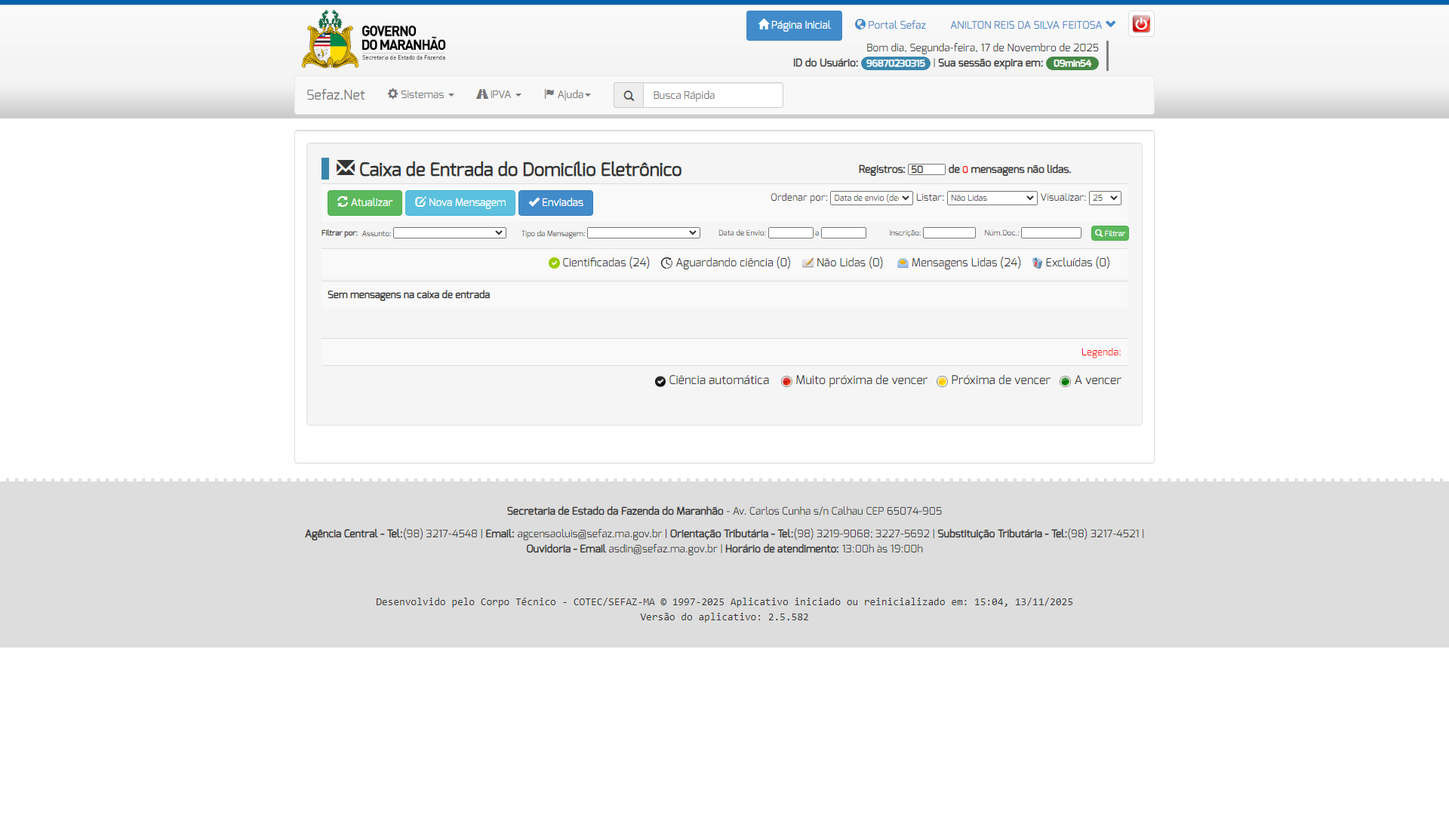
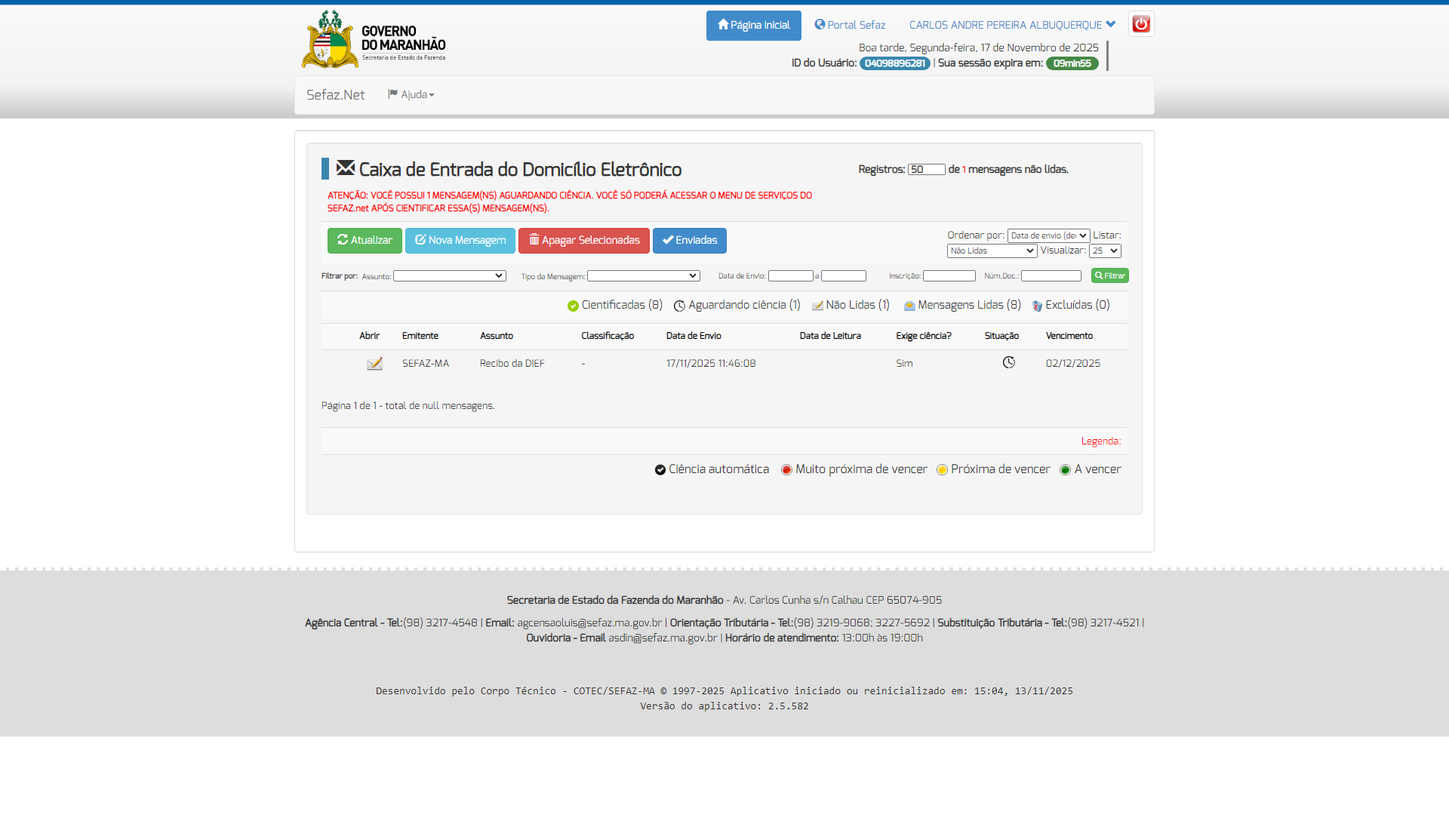
Atualização arquivos de debug e screenshots

diff --git a/debug_post_login.html b/debug_post_login.html
@@ -250,7 +250,7 @@ function ShowPopup(URL){
 		      <li class="title"><h3>Sefaz.NET</h3></li>
 			  <li class="dropdown">
 	
-		        <a id="drop4" role="button" data-toggle="dropdown" href="#"> ANILTON REIS DA SILVA FEITOSA <span class="glyphicon glyphicon-chevron-down"></span></a>
+		        <a id="drop4" role="button" data-toggle="dropdown" href="#"> CARLOS ANDRE PEREIRA ALBUQUERQUE <span class="glyphicon glyphicon-chevron-down"></span></a>
 		        <ul id="menu1" class="dropdown-menu login" role="menu" aria-labelledby="drop4">
 		          <li role="presentation"><a role="menuitem" tabindex="-1" href="/sefaznet/jsp/iPerfilUsuario/IConsultaPerfilUsuario.jsp"><i class="glyphicon glyphicon-user"></i> Ver Perfil</a></li>
 		          <li role="presentation"><a role="menuitem" tabindex="-1" href="/sefaznet/insertIAlteracaoSenha.do?method=preInsert"><i class="glyphicon glyphicon-asterisk"></i> Alterar Senha</a></li>
@@ -265,8 +265,8 @@ function ShowPopup(URL){
 		    </ul> <!-- /pills -->
 	
 			<div id="dadosLogin">
-			  <div id="data">Bom dia, Segunda-feira, 17 de Novembro de 2025</div>	  
-			  <div id="sessao"><strong>ID do Usuário:</strong> <span class="badge azul">96870230315</span> | <strong>Sua sessão expira em:</strong> <span id="tempo"><span class="badge verde sessao">09min58</span></span></div>	    		
+			  <div id="data">Boa tarde, Segunda-feira, 17 de Novembro de 2025</div>	  
+			  <div id="sessao"><strong>ID do Usuário:</strong> <span class="badge azul">04098896281</span> | <strong>Sua sessão expira em:</strong> <span id="tempo"><span class="badge verde sessao">09min58</span></span></div>	    		
 			</div>
 		</div>
 	
@@ -291,44 +291,6 @@ function ShowPopup(URL){
 	            <ul class="nav navbar-nav">
 					
 	            	
-	            	
-			              <li class="dropdown">
-			                <a href="#" class="dropdown-toggle" data-hover="dropdown"><i class="glyphicon glyphicon-cog"></i> Sistemas <span class="caret"></span></a>
-			                <ul class="dropdown-menu" role="menu">
-			                	<li class="dropdown-header">Selecione a Área de Negócio</li>
-			                	
-			                		<li><a href="#" onclick="javascript:listMenu(document.menuForm,this,'1')"><i class="glyphicon glyphicon-lock"></i>  Controle de Acesso</a></li>
-								
-			                		<li><a href="#" onclick="javascript:listMenu(document.menuForm,this,'2')"><i class="glyphicon glyphicon-usd"></i> Arrecadação</a></li>
-								
-			                		<li><a href="#" onclick="javascript:listMenu(document.menuForm,this,'3')"><i class="glyphicon glyphicon-eye-open"></i> Fiscalização</a></li>
-								
-			                		<li><a href="#" onclick="javascript:listMenu(document.menuForm,this,'4')"><i class="glyphicon glyphicon-info-sign"></i>   Atendimento/Contribuinte</a></li>
-								
-			                		<li><a href="#" onclick="javascript:listMenu(document.menuForm,this,'5')"><i class="glyphicon glyphicon-th-large"></i> Contencioso</a></li>
-								
-			                		<li><a href="#" onclick="javascript:listMenu(document.menuForm,this,'6')"><i class="glyphicon glyphicon-barcode"></i> Tributação</a></li>
-								
-			                		<li><a href="#" onclick="javascript:listMenu(document.menuForm,this,'11')"><i class="glyphicon glyphicon-thumbs-down"></i> Dívida Ativa</a></li>
-								
-			                		<li><a href="#" onclick="javascript:listMenu(document.menuForm,this,'12')"><i class="glyphicon glyphicon-road"></i> IPVA</a></li>
-								
-			                		<li><a href="#" onclick="javascript:listMenu(document.menuForm,this,'13')"><i class="glyphicon glyphicon-thumbs-up"></i> ITCD</a></li>
-								
-								<li class="divider"></li>	
-								<li><a href="#" onclick="javascript:listMenu(document.menuForm,this,'all')"><i class="glyphicon glyphicon-asterisk"></i> Todas as Áreas de Negócio</a></li>
-			                </ul>
-			              </li>
-						
-						<li class="dropdown"><a href="#" class="dropdown-toggle" data-hover="dropdown"><i class="glyphicon glyphicon-road"></i> IPVA <span class="caret"></span></a><ul class="dropdown-menu" role="menu"><li class="dropdown-submenu"><a tabindex="-1" href="#">Concessionária</a><ul class="dropdown-menu"><li><a href="#" onclick="javascript: clickArvore(document.menuForm,'/sefaznet/listFilterIFuncionarioConcessionaria.do?method=preFilter&amp;MenuIndex=1.23.1.1','IPVA');">Cadastro de Funcionarios</a></li><li><a href="#" onclick="javascript: clickArvore(document.menuForm,'/sefaznet/listFilterILancamentoIpvaConcessionaria.do?method=preFilterConcessionaria&amp;MenuIndex=1.23.1.2','IPVA');">Lançamento de NFe</a></li></ul></li></ul></li>  
-							      
-		                
-		                
-		                
-						
-						
-	                           
-	              
 	                <li class="dropdown">
 						<a href="#" class="dropdown-toggle" data-hover="dropdown"><i class="glyphicon glyphicon-flag"></i> Ajuda<span class="caret"></span></a>
 						<ul class="dropdown-menu" role="menu">
@@ -371,15 +333,6 @@ function ShowPopup(URL){
 	            
 	            
 	            
-			        <form class="navbar-form navbar-left span6" role="search">
-			          <div class="form-group">
-		                  <div class="input-group input-group-mx">
-		                      <span class="input-group-addon"><i class="glyphicon glyphicon-search"></i></span>
-		                      <input type="text" id="search" name="search" class="form-control search ui-autocomplete-input" autocomplete="off" title="Digite parte do nome do serviço que procura" placeholder="Busca Rápida">                  
-		                  </div>	        
-			          </div>
-			        </form>
-		        
 		          
 		          
 
@@ -412,12 +365,22 @@ function ShowPopup(URL){
  						
  							Registros: 
  							 <input type="text" name="numeroRegistros" size="1" value="50" onkeypress="return isNumberKey(event);" onchange="javascript:atualizarCaixaEntrada();" onfocus="window.status=''" style="font-size:13px; width:50px; height:15px;">
- 						 	de <span style="color: red; font-weight: bold; font-size: 12px;">0</span> mensagens não lidas.
+ 						 	de <span style="color: red; font-weight: bold; font-size: 12px;">1</span> mensagens não lidas.
  						
  						
  						</h6>	
 						
 <table class="table table-striped" style="height: 35px;margin-bottom: 05px;">
+					
+					<thead>
+					<tr>
+						<td><span style="color: red; FONT-WEIGHT: bold; font-size: 12px;">
+								ATENÇÃO: VOCÊ POSSUI 1 MENSAGEM(NS)
+								AGUARDANDO CIÊNCIA. VOCÊ SÓ PODERÁ ACESSAR O MENU DE SERVIÇOS DO
+								SEFAZ.net APÓS CIENTIFICAR ESSA(S) MENSAGEM(NS).
+						</span></td>
+					</tr>
+					</thead>
 					
 					
 					<tbody><tr>
@@ -426,6 +389,8 @@ function ShowPopup(URL){
 						
 						<button class="btn btn-info" onclick="javascript:enviarNovaMensagem();"><span class="glyphicon glyphicon-edit"></span> Nova Mensagem</button>
 						
+ 
+ <button class="btn btn-danger" onclick="javascript:return apagarMensagensSelecionadas();"><span class="glyphicon glyphicon-trash"></span> Apagar Selecionadas</button> 
   
  <button class="btn btn-primary" onclick="javascript:visualizarMensagensEnviadas();"><span class="glyphicon glyphicon-ok"></span> Enviadas</button>
  						</td>
@@ -574,8 +539,8 @@ function ShowPopup(URL){
 		
 					<td style="font-size:10px;"> Data de Envio:
 			
-			<input type="text" name="dataEnvioInicial" maxlength="10" size="12" value="" onkeydown="FormataData(this,event); window.status=''" onchange="ValidaData(this);" onfocus="SetarEvento(this,10,'DT', true); window.status='';" style="font-size:10px; width:60px; height:15px;" class="senha hasDatepicker" id="dp1763349485909">  a 
-            <input type="text" name="dataEnvioFinal" maxlength="10" size="12" value="" onkeydown="FormataData(this,event);" onfocus="SetarEvento(this,10,'DT', true); window.status='';" style="font-size:10px; width:60px; height:15px;" class="senha hasDatepicker" id="dp1763349485910"> &nbsp;&nbsp;&nbsp;
+			<input type="text" name="dataEnvioInicial" maxlength="10" size="12" value="" onkeydown="FormataData(this,event); window.status=''" onchange="ValidaData(this);" onfocus="SetarEvento(this,10,'DT', true); window.status='';" style="font-size:10px; width:60px; height:15px;" class="senha hasDatepicker" id="dp1763401235137">  a 
+            <input type="text" name="dataEnvioFinal" maxlength="10" size="12" value="" onkeydown="FormataData(this,event);" onfocus="SetarEvento(this,10,'DT', true); window.status='';" style="font-size:10px; width:60px; height:15px;" class="senha hasDatepicker" id="dp1763401235138"> &nbsp;&nbsp;&nbsp;
                       	
            </td>
 			 <td style="font-size:10px;">Inscrição:
@@ -599,10 +564,10 @@ function ShowPopup(URL){
 <table class="table table-striped" style="height: 35px;margin-bottom: -15px; margin-top:10px; font-size: 15px">
 <tbody><tr>
 						<td class="textoPequeno" align="right">
-						<img src="/sefaznet/images/im_ok2.gif" border="0" height="15"> Cientificadas (24)&nbsp;&nbsp;&nbsp;
-							<img src="/sefaznet/images/esperando_ciencia.png" border="0" height="15"> Aguardando ciência (0)&nbsp;&nbsp;&nbsp;
-							<img src="/sefaznet/images/ic_msg_nova.png" border="0" height="15"> Não Lidas (0) &nbsp;&nbsp;&nbsp;
-							<img src="/sefaznet/images/ic_msg_lida.png" border="0" height="15"> Mensagens Lidas (24)&nbsp;&nbsp;&nbsp; 
+						<img src="/sefaznet/images/im_ok2.gif" border="0" height="15"> Cientificadas (8)&nbsp;&nbsp;&nbsp;
+							<img src="/sefaznet/images/esperando_ciencia.png" border="0" height="15"> Aguardando ciência (1)&nbsp;&nbsp;&nbsp;
+							<img src="/sefaznet/images/ic_msg_nova.png" border="0" height="15"> Não Lidas (1) &nbsp;&nbsp;&nbsp;
+							<img src="/sefaznet/images/ic_msg_lida.png" border="0" height="15"> Mensagens Lidas (8)&nbsp;&nbsp;&nbsp; 
 							<img src="/sefaznet/images/lixeira.gif" border="0" height="15"> Excluídas (0) &nbsp;&nbsp;&nbsp;
 							</td>
 					</tr>
@@ -615,12 +580,69 @@ function ShowPopup(URL){
 				<table class="table table-striped">
 					
 					<tbody><tr>
-						<td colspan="10" class="texto_negrito" align="left">Sem
-							mensagens na caixa de entrada</td>
+						<th></th>
+						<th></th>
+						<th class="celula_horizontal" align="center">Abrir</th>
+						<th class="celula_horizontal" align="center">Emitente</th>
+						<th class="celula_horizontal" align="center">Assunto</th>
+						<th class="celula_horizontal" align="center">Classificação</th>
+						<th class="celula_horizontal" align="center">Data de Envio</th>
+						<th class="celula_horizontal" align="center">Data de Leitura</th>
+						<th class="celula_horizontal" align="center">Exige ciência?</th>
+						<th class="celula_horizontal" align="center">Situação</th>
+						<th class="celula_horizontal" align="center">Vencimento</th>
+					</tr>
+
+					
+					<tr>
+						<td class="texto" align="center">
+							
+						</td>
+						<td class="texto" align="center">
+							
+						</td>
+						<td class="texto" align="center">
+							
+							<a href="javascript:abrirMensagem('/sefaznet/abrirMensagemDomicilio.do?method=abrirMensagem&amp;idMensagemDestinatario=43000056');">
+								<img src="/sefaznet/images/ic_msg_nova.png" title="Clique para abrir" border="0" height="21">
+						</a> 
+						</td>
+						<td class="texto" align="left">SEFAZ-MA</td>
+						<td class="texto" align="left">Recibo da DIEF</td>
+						<td class="texto" align="left">-</td>
+						<td class="texto" align="left">17/11/2025 11:46:08</td>
+						<td class="texto" align="left"></td>
+						<td class="texto" align="left"> 
+					         <p>Sim</p>
+					      </td>
+						<td class="texto" align="center">
+							
+							<img src="/sefaznet/images/esperando_ciencia.png" title="Aguardando ciência do usuario" border="0" height="16"> 
+						</td>
+						<td class="texto" align="left">02/12/2025</td>
 					</tr>
 					
+				
 				</tbody></table>
 
+				
+				<table>
+					<tbody><tr>
+						<td width="50%" align="right">
+							
+						</td>
+						<td width="50%" align="left">
+							
+						</td>
+					</tr>
+					<tr>
+
+						<td colspan="2" class="texto" align="center">Página 1
+							de 1 - total
+							de null mensagens.
+						</td>
+					</tr>
+				</tbody></table>
 				
 
 				<br>
@@ -760,7 +782,7 @@ function ShowPopup(URL){
     		monName = new Array ("Janeiro", "Fevereiro", "Março", "Abril", "Maio", "Junho", "Julho", "Agosto", "Setembro", "Outubro", "Novembro", "Dezembro");
     		now = new Date;
 
-    		$("#data").html("Bom dia, " + dayName[now.getDay() ] + ", " + now.getDate () + " de " + monName [now.getMonth() ] + " de " + now.getFullYear()); 
+    		$("#data").html("Boa tarde, " + dayName[now.getDay() ] + ", " + now.getDate () + " de " + monName [now.getMonth() ] + " de " + now.getFullYear()); 
     	}
     	getData();
     	
@@ -966,4 +988,4 @@ function ShowPopup(URL){
  		    return !(charCode > 31 && (charCode < 48 || charCode > 57));
  		}
  </script>
-<ul class="vakata-context"></ul><div id="jstree-marker" style="display: none;">&nbsp;</div><ul class="ui-autocomplete ui-front ui-menu ui-widget ui-widget-content" id="ui-id-1" tabindex="0" style="display: none;"></ul><span role="status" aria-live="assertive" aria-relevant="additions" class="ui-helper-hidden-accessible"></span><div id="ui-datepicker-div" class="ui-datepicker ui-widget ui-widget-content ui-helper-clearfix ui-corner-all"><div class="ui-datepicker-header ui-widget-header ui-helper-clearfix ui-corner-all"><a class="ui-datepicker-prev ui-corner-all" data-handler="prev" data-event="click" title="Anterior"><span class="ui-icon ui-icon-circle-triangle-w">Anterior</span></a><a class="ui-datepicker-next ui-corner-all" data-handler="next" data-event="click" title="Próximo"><span class="ui-icon ui-icon-circle-triangle-e">Próximo</span></a><div class="ui-datepicker-title"><select class="ui-datepicker-month" data-handler="selectMonth" data-event="change"><option value="0">Jan</option><option value="1">Fev</option><option value="2">Mar</option><option value="3">Abr</option><option value="4">Mai</option><option value="5">Jun</option><option value="6">Jul</option><option value="7">Ago</option><option value="8">Set</option><option value="9">Out</option><option value="10" selected="selected">Nov</option><option value="11">Dez</option></select><select class="ui-datepicker-year" data-handler="selectYear" data-event="change"><option value="2015">2015</option><option value="2016">2016</option><option value="2017">2017</option><option value="2018">2018</option><option value="2019">2019</option><option value="2020">2020</option><option value="2021">2021</option><option value="2022">2022</option><option value="2023">2023</option><option value="2024">2024</option><option value="2025" selected="selected">2025</option><option value="2026">2026</option><option value="2027">2027</option></select></div></div><table class="ui-datepicker-calendar"><thead><tr><th scope="col" class="ui-datepicker-week-end"><span title="Domingo">D</span></th><th scope="col"><span title="Segunda">S</span></th><th scope="col"><span title="Terça">T</span></th><th scope="col"><span title="Quarta">Q</span></th><th scope="col"><span title="Quita">Q</span></th><th scope="col"><span title="Sexta">S</span></th><th scope="col" class="ui-datepicker-week-end"><span title="Sábado">S</span></th></tr></thead><tbody><tr><td class=" ui-datepicker-week-end ui-datepicker-other-month " data-handler="selectDay" data-event="click" data-month="9" data-year="2025"><a class="ui-state-default ui-priority-secondary" href="#">26</a></td><td class=" ui-datepicker-other-month " data-handler="selectDay" data-event="click" data-month="9" data-year="2025"><a class="ui-state-default ui-priority-secondary" href="#">27</a></td><td class=" ui-datepicker-other-month " data-handler="selectDay" data-event="click" data-month="9" data-year="2025"><a class="ui-state-default ui-priority-secondary" href="#">28</a></td><td class=" ui-datepicker-other-month " data-handler="selectDay" data-event="click" data-month="9" data-year="2025"><a class="ui-state-default ui-priority-secondary" href="#">29</a></td><td class=" ui-datepicker-other-month " data-handler="selectDay" data-event="click" data-month="9" data-year="2025"><a class="ui-state-default ui-priority-secondary" href="#">30</a></td><td class=" ui-datepicker-other-month " data-handler="selectDay" data-event="click" data-month="9" data-year="2025"><a class="ui-state-default ui-priority-secondary" href="#">31</a></td><td class=" ui-datepicker-week-end " data-handler="selectDay" data-event="click" data-month="10" data-year="2025"><a class="ui-state-default" href="#">1</a></td></tr><tr><td class=" ui-datepicker-week-end " data-handler="selectDay" data-event="click" data-month="10" data-year="2025"><a class="ui-state-default" href="#">2</a></td><td class=" " data-handler="selectDay" data-event="click" data-month="10" data-year="2025"><a class="ui-state-default" href="#">3</a></td><td class=" " data-handler="selectDay" data-event="click" data-month="10" data-year="2025"><a class="ui-state-default" href="#">4</a></td><td class=" " data-handler="selectDay" data-event="click" data-month="10" data-year="2025"><a class="ui-state-default" href="#">5</a></td><td class=" " data-handler="selectDay" data-event="click" data-month="10" data-year="2025"><a class="ui-state-default" href="#">6</a></td><td class=" " data-handler="selectDay" data-event="click" data-month="10" data-year="2025"><a class="ui-state-default" href="#">7</a></td><td class=" ui-datepicker-week-end " data-handler="selectDay" data-event="click" data-month="10" data-year="2025"><a class="ui-state-default" href="#">8</a></td></tr><tr><td class=" ui-datepicker-week-end " data-handler="selectDay" data-event="click" data-month="10" data-year="2025"><a class="ui-state-default" href="#">9</a></td><td class=" " data-handler="selectDay" data-event="click" data-month="10" data-year="2025"><a class="ui-state-default" href="#">10</a></td><td class=" " data-handler="selectDay" data-event="click" data-month="10" data-year="2025"><a class="ui-state-default" href="#">11</a></td><td class=" " data-handler="selectDay" data-event="click" data-month="10" data-year="2025"><a class="ui-state-default" href="#">12</a></td><td class=" " data-handler="selectDay" data-event="click" data-month="10" data-year="2025"><a class="ui-state-default" href="#">13</a></td><td class=" " data-handler="selectDay" data-event="click" data-month="10" data-year="2025"><a class="ui-state-default" href="#">14</a></td><td class=" ui-datepicker-week-end " data-handler="selectDay" data-event="click" data-month="10" data-year="2025"><a class="ui-state-default" href="#">15</a></td></tr><tr><td class=" ui-datepicker-week-end " data-handler="selectDay" data-event="click" data-month="10" data-year="2025"><a class="ui-state-default" href="#">16</a></td><td class=" ui-datepicker-days-cell-over  ui-datepicker-current-day ui-datepicker-today" data-handler="selectDay" data-event="click" data-month="10" data-year="2025"><a class="ui-state-default ui-state-highlight ui-state-active ui-state-hover" href="#">17</a></td><td class=" " data-handler="selectDay" data-event="click" data-month="10" data-year="2025"><a class="ui-state-default" href="#">18</a></td><td class=" " data-handler="selectDay" data-event="click" data-month="10" data-year="2025"><a class="ui-state-default" href="#">19</a></td><td class=" " data-handler="selectDay" data-event="click" data-month="10" data-year="2025"><a class="ui-state-default" href="#">20</a></td><td class=" " data-handler="selectDay" data-event="click" data-month="10" data-year="2025"><a class="ui-state-default" href="#">21</a></td><td class=" ui-datepicker-week-end " data-handler="selectDay" data-event="click" data-month="10" data-year="2025"><a class="ui-state-default" href="#">22</a></td></tr><tr><td class=" ui-datepicker-week-end " data-handler="selectDay" data-event="click" data-month="10" data-year="2025"><a class="ui-state-default" href="#">23</a></td><td class=" " data-handler="selectDay" data-event="click" data-month="10" data-year="2025"><a class="ui-state-default" href="#">24</a></td><td class=" " data-handler="selectDay" data-event="click" data-month="10" data-year="2025"><a class="ui-state-default" href="#">25</a></td><td class=" " data-handler="selectDay" data-event="click" data-month="10" data-year="2025"><a class="ui-state-default" href="#">26</a></td><td class=" " data-handler="selectDay" data-event="click" data-month="10" data-year="2025"><a class="ui-state-default" href="#">27</a></td><td class=" " data-handler="selectDay" data-event="click" data-month="10" data-year="2025"><a class="ui-state-default" href="#">28</a></td><td class=" ui-datepicker-week-end " data-handler="selectDay" data-event="click" data-month="10" data-year="2025"><a class="ui-state-default" href="#">29</a></td></tr><tr><td class=" ui-datepicker-week-end " data-handler="selectDay" data-event="click" data-month="10" data-year="2025"><a class="ui-state-default" href="#">30</a></td><td class=" ui-datepicker-other-month " data-handler="selectDay" data-event="click" data-month="11" data-year="2025"><a class="ui-state-default ui-priority-secondary" href="#">1</a></td><td class=" ui-datepicker-other-month " data-handler="selectDay" data-event="click" data-month="11" data-year="2025"><a class="ui-state-default ui-priority-secondary" href="#">2</a></td><td class=" ui-datepicker-other-month " data-handler="selectDay" data-event="click" data-month="11" data-year="2025"><a class="ui-state-default ui-priority-secondary" href="#">3</a></td><td class=" ui-datepicker-other-month " data-handler="selectDay" data-event="click" data-month="11" data-year="2025"><a class="ui-state-default ui-priority-secondary" href="#">4</a></td><td class=" ui-datepicker-other-month " data-handler="selectDay" data-event="click" data-month="11" data-year="2025"><a class="ui-state-default ui-priority-secondary" href="#">5</a></td><td class=" ui-datepicker-week-end ui-datepicker-other-month " data-handler="selectDay" data-event="click" data-month="11" data-year="2025"><a class="ui-state-default ui-priority-secondary" href="#">6</a></td></tr></tbody></table><div class="ui-datepicker-buttonpane ui-widget-content"><button type="button" class="ui-datepicker-current ui-state-default ui-priority-secondary ui-corner-all" data-handler="today" data-event="click">Hoje</button><button type="button" class="ui-datepicker-close ui-state-default ui-priority-primary ui-corner-all" data-handler="hide" data-event="click">Fechar</button></div></div><iframe id="_hjSafeContext_4678340" title="_hjSafeContext" tabindex="-1" aria-hidden="true" src="about:blank" style="display: none !important; width: 1px !important; height: 1px !important; opacity: 0 !important; pointer-events: none !important;"></iframe></body></html>
+<ul class="vakata-context"></ul><div id="jstree-marker" style="display: none;">&nbsp;</div><div id="ui-datepicker-div" class="ui-datepicker ui-widget ui-widget-content ui-helper-clearfix ui-corner-all"><div class="ui-datepicker-header ui-widget-header ui-helper-clearfix ui-corner-all"><a class="ui-datepicker-prev ui-corner-all" data-handler="prev" data-event="click" title="Anterior"><span class="ui-icon ui-icon-circle-triangle-w">Anterior</span></a><a class="ui-datepicker-next ui-corner-all" data-handler="next" data-event="click" title="Próximo"><span class="ui-icon ui-icon-circle-triangle-e">Próximo</span></a><div class="ui-datepicker-title"><select class="ui-datepicker-month" data-handler="selectMonth" data-event="change"><option value="0">Jan</option><option value="1">Fev</option><option value="2">Mar</option><option value="3">Abr</option><option value="4">Mai</option><option value="5">Jun</option><option value="6">Jul</option><option value="7">Ago</option><option value="8">Set</option><option value="9">Out</option><option value="10" selected="selected">Nov</option><option value="11">Dez</option></select><select class="ui-datepicker-year" data-handler="selectYear" data-event="change"><option value="2015">2015</option><option value="2016">2016</option><option value="2017">2017</option><option value="2018">2018</option><option value="2019">2019</option><option value="2020">2020</option><option value="2021">2021</option><option value="2022">2022</option><option value="2023">2023</option><option value="2024">2024</option><option value="2025" selected="selected">2025</option><option value="2026">2026</option><option value="2027">2027</option></select></div></div><table class="ui-datepicker-calendar"><thead><tr><th scope="col" class="ui-datepicker-week-end"><span title="Domingo">D</span></th><th scope="col"><span title="Segunda">S</span></th><th scope="col"><span title="Terça">T</span></th><th scope="col"><span title="Quarta">Q</span></th><th scope="col"><span title="Quita">Q</span></th><th scope="col"><span title="Sexta">S</span></th><th scope="col" class="ui-datepicker-week-end"><span title="Sábado">S</span></th></tr></thead><tbody><tr><td class=" ui-datepicker-week-end ui-datepicker-other-month " data-handler="selectDay" data-event="click" data-month="9" data-year="2025"><a class="ui-state-default ui-priority-secondary" href="#">26</a></td><td class=" ui-datepicker-other-month " data-handler="selectDay" data-event="click" data-month="9" data-year="2025"><a class="ui-state-default ui-priority-secondary" href="#">27</a></td><td class=" ui-datepicker-other-month " data-handler="selectDay" data-event="click" data-month="9" data-year="2025"><a class="ui-state-default ui-priority-secondary" href="#">28</a></td><td class=" ui-datepicker-other-month " data-handler="selectDay" data-event="click" data-month="9" data-year="2025"><a class="ui-state-default ui-priority-secondary" href="#">29</a></td><td class=" ui-datepicker-other-month " data-handler="selectDay" data-event="click" data-month="9" data-year="2025"><a class="ui-state-default ui-priority-secondary" href="#">30</a></td><td class=" ui-datepicker-other-month " data-handler="selectDay" data-event="click" data-month="9" data-year="2025"><a class="ui-state-default ui-priority-secondary" href="#">31</a></td><td class=" ui-datepicker-week-end " data-handler="selectDay" data-event="click" data-month="10" data-year="2025"><a class="ui-state-default" href="#">1</a></td></tr><tr><td class=" ui-datepicker-week-end " data-handler="selectDay" data-event="click" data-month="10" data-year="2025"><a class="ui-state-default" href="#">2</a></td><td class=" " data-handler="selectDay" data-event="click" data-month="10" data-year="2025"><a class="ui-state-default" href="#">3</a></td><td class=" " data-handler="selectDay" data-event="click" data-month="10" data-year="2025"><a class="ui-state-default" href="#">4</a></td><td class=" " data-handler="selectDay" data-event="click" data-month="10" data-year="2025"><a class="ui-state-default" href="#">5</a></td><td class=" " data-handler="selectDay" data-event="click" data-month="10" data-year="2025"><a class="ui-state-default" href="#">6</a></td><td class=" " data-handler="selectDay" data-event="click" data-month="10" data-year="2025"><a class="ui-state-default" href="#">7</a></td><td class=" ui-datepicker-week-end " data-handler="selectDay" data-event="click" data-month="10" data-year="2025"><a class="ui-state-default" href="#">8</a></td></tr><tr><td class=" ui-datepicker-week-end " data-handler="selectDay" data-event="click" data-month="10" data-year="2025"><a class="ui-state-default" href="#">9</a></td><td class=" " data-handler="selectDay" data-event="click" data-month="10" data-year="2025"><a class="ui-state-default" href="#">10</a></td><td class=" " data-handler="selectDay" data-event="click" data-month="10" data-year="2025"><a class="ui-state-default" href="#">11</a></td><td class=" " data-handler="selectDay" data-event="click" data-month="10" data-year="2025"><a class="ui-state-default" href="#">12</a></td><td class=" " data-handler="selectDay" data-event="click" data-month="10" data-year="2025"><a class="ui-state-default" href="#">13</a></td><td class=" " data-handler="selectDay" data-event="click" data-month="10" data-year="2025"><a class="ui-state-default" href="#">14</a></td><td class=" ui-datepicker-week-end " data-handler="selectDay" data-event="click" data-month="10" data-year="2025"><a class="ui-state-default" href="#">15</a></td></tr><tr><td class=" ui-datepicker-week-end " data-handler="selectDay" data-event="click" data-month="10" data-year="2025"><a class="ui-state-default" href="#">16</a></td><td class=" ui-datepicker-days-cell-over  ui-datepicker-current-day ui-datepicker-today" data-handler="selectDay" data-event="click" data-month="10" data-year="2025"><a class="ui-state-default ui-state-highlight ui-state-active ui-state-hover" href="#">17</a></td><td class=" " data-handler="selectDay" data-event="click" data-month="10" data-year="2025"><a class="ui-state-default" href="#">18</a></td><td class=" " data-handler="selectDay" data-event="click" data-month="10" data-year="2025"><a class="ui-state-default" href="#">19</a></td><td class=" " data-handler="selectDay" data-event="click" data-month="10" data-year="2025"><a class="ui-state-default" href="#">20</a></td><td class=" " data-handler="selectDay" data-event="click" data-month="10" data-year="2025"><a class="ui-state-default" href="#">21</a></td><td class=" ui-datepicker-week-end " data-handler="selectDay" data-event="click" data-month="10" data-year="2025"><a class="ui-state-default" href="#">22</a></td></tr><tr><td class=" ui-datepicker-week-end " data-handler="selectDay" data-event="click" data-month="10" data-year="2025"><a class="ui-state-default" href="#">23</a></td><td class=" " data-handler="selectDay" data-event="click" data-month="10" data-year="2025"><a class="ui-state-default" href="#">24</a></td><td class=" " data-handler="selectDay" data-event="click" data-month="10" data-year="2025"><a class="ui-state-default" href="#">25</a></td><td class=" " data-handler="selectDay" data-event="click" data-month="10" data-year="2025"><a class="ui-state-default" href="#">26</a></td><td class=" " data-handler="selectDay" data-event="click" data-month="10" data-year="2025"><a class="ui-state-default" href="#">27</a></td><td class=" " data-handler="selectDay" data-event="click" data-month="10" data-year="2025"><a class="ui-state-default" href="#">28</a></td><td class=" ui-datepicker-week-end " data-handler="selectDay" data-event="click" data-month="10" data-year="2025"><a class="ui-state-default" href="#">29</a></td></tr><tr><td class=" ui-datepicker-week-end " data-handler="selectDay" data-event="click" data-month="10" data-year="2025"><a class="ui-state-default" href="#">30</a></td><td class=" ui-datepicker-other-month " data-handler="selectDay" data-event="click" data-month="11" data-year="2025"><a class="ui-state-default ui-priority-secondary" href="#">1</a></td><td class=" ui-datepicker-other-month " data-handler="selectDay" data-event="click" data-month="11" data-year="2025"><a class="ui-state-default ui-priority-secondary" href="#">2</a></td><td class=" ui-datepicker-other-month " data-handler="selectDay" data-event="click" data-month="11" data-year="2025"><a class="ui-state-default ui-priority-secondary" href="#">3</a></td><td class=" ui-datepicker-other-month " data-handler="selectDay" data-event="click" data-month="11" data-year="2025"><a class="ui-state-default ui-priority-secondary" href="#">4</a></td><td class=" ui-datepicker-other-month " data-handler="selectDay" data-event="click" data-month="11" data-year="2025"><a class="ui-state-default ui-priority-secondary" href="#">5</a></td><td class=" ui-datepicker-week-end ui-datepicker-other-month " data-handler="selectDay" data-event="click" data-month="11" data-year="2025"><a class="ui-state-default ui-priority-secondary" href="#">6</a></td></tr></tbody></table><div class="ui-datepicker-buttonpane ui-widget-content"><button type="button" class="ui-datepicker-current ui-state-default ui-priority-secondary ui-corner-all" data-handler="today" data-event="click">Hoje</button><button type="button" class="ui-datepicker-close ui-state-default ui-priority-primary ui-corner-all" data-handler="hide" data-event="click">Fechar</button></div></div><iframe id="_hjSafeContext_25453410" title="_hjSafeContext" tabindex="-1" aria-hidden="true" src="about:blank" style="display: none !important; width: 1px !important; height: 1px !important; opacity: 0 !important; pointer-events: none !important;"></iframe></body></html>
